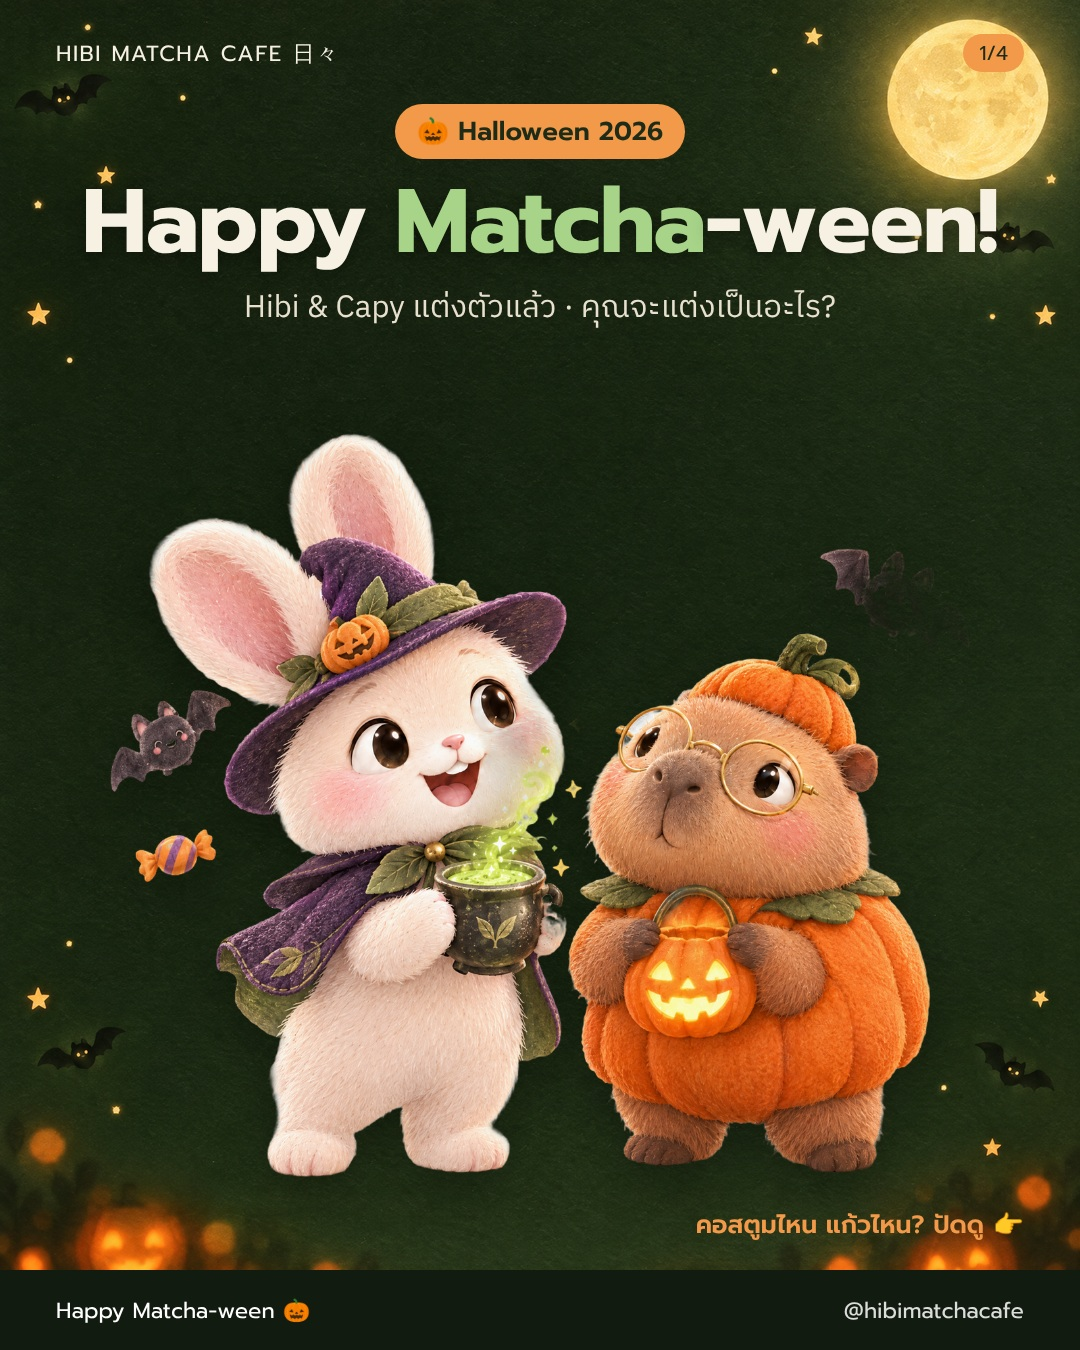
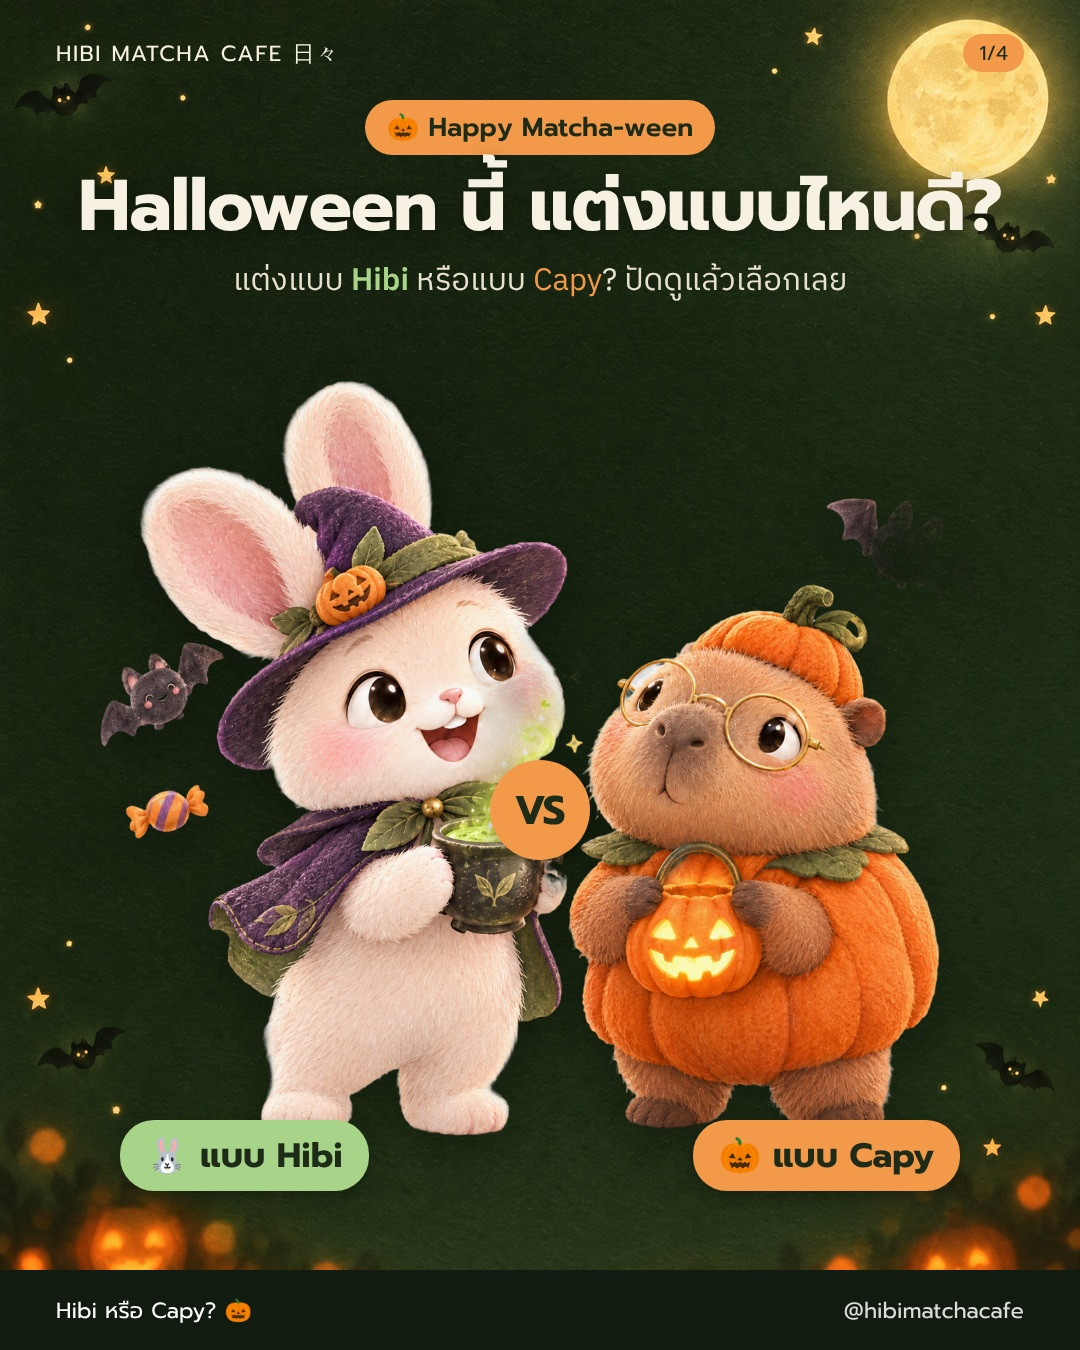
Halloween carousel: reframe as 'dress like Hibi or Capy?' vote
Claude-Session: https://claude.ai/code/session_019v9CAxCxqD3EqyHWdLwpMA

Changed region(s): [[0.0917, 0.28, 0.9472, 0.9333], [0.0611, 0.0622, 0.9472, 0.2489], [0.0611, 0.9644, 0.3056, 0.9956]]

diff --git a/docs/content-plan/campaigns/halloween-2026/build_slides.py b/docs/content-plan/campaigns/halloween-2026/build_slides.py
@@ -20,17 +20,21 @@ body{{background:{NIGHT} url('{A("bg_night", 1350)}') center/cover;color:{CREAM}
 .chip{{display:inline-block;background:{ORANGE};color:{NIGHT};font-family:'Prompt';font-weight:600;font-size:26px;padding:8px 22px;border-radius:30px}}
 {css}</style></head><body>
 <div class="top"><span>HIBI MATCHA CAFE 日々</span><span class="pg">{n}/{TOTAL}</span></div>{body}
-<div class="foot"><span>Happy Matcha-ween 🎃</span><span class="r">@hibimatchacafe</span></div></body></html>"""
+<div class="foot"><span>Hibi หรือ Capy? 🎃</span><span class="r">@hibimatchacafe</span></div></body></html>"""
 
 def s1():
-    css = f""".w{{position:absolute;top:104px;left:0;right:0;text-align:center}}
-.t{{font-size:90px;color:{CREAM};margin-top:16px;text-shadow:0 4px 18px rgba(0,0,0,.35)}}.t em{{font-style:normal;color:{LEAF}}}
-.s{{font-size:31px;color:#e8e1cf;margin-top:12px}}
-.sw{{position:absolute;right:56px;top:1206px;font-family:'Prompt';font-weight:600;font-size:25px;color:{ORANGE}}}"""
-    body = f"""<div class="w"><span class="chip">🎃 Halloween 2026</span>
-<div class="h1 t">Happy <em>Matcha</em>-ween!</div><div class="s">Hibi &amp; Capy แต่งตัวแล้ว · คุณจะแต่งเป็นอะไร?</div></div>
-<img class="art" src="{A('art_duo')}" style="left:110px;top:410px;width:860px;height:790px;object-fit:contain">
-<div class="sw">คอสตูมไหน แก้วไหน? ปัดดู 👉</div>"""
+    css = f""".w{{position:absolute;top:100px;left:0;right:0;text-align:center}}
+.t{{font-size:72px;color:{CREAM};margin-top:14px;text-shadow:0 4px 18px rgba(0,0,0,.35)}}
+.s{{font-size:31px;color:#e8e1cf;margin-top:10px}}.s b{{color:{LEAF}}}.s i{{font-style:normal;color:{ORANGE}}}
+.vs{{position:absolute;top:760px;left:490px;width:100px;height:100px;border-radius:50%;background:{ORANGE};color:{NIGHT};font-family:'Prompt';font-weight:700;font-size:40px;display:flex;align-items:center;justify-content:center;box-shadow:0 8px 20px rgba(0,0,0,.35)}}
+.lb{{position:absolute;top:1120px;font-family:'Prompt';font-weight:700;font-size:34px;padding:10px 26px;border-radius:34px;box-shadow:0 8px 20px rgba(0,0,0,.3)}}
+.sw{{position:absolute;right:56px;top:1206px;font-family:'Prompt';font-weight:600;font-size:24px;color:{ORANGE}}}"""
+    body = f"""<div class="w"><span class="chip">🎃 Happy Matcha-ween</span>
+<div class="h1 t">Halloween นี้ แต่งแบบไหนดี?</div><div class="s">แต่งแบบ <b>Hibi</b> หรือแบบ <i>Capy</i>? ปัดดูแล้วเลือกเลย</div></div>
+<img class="art" src="{A('art_duo')}" style="left:90px;top:380px;width:900px;height:760px;object-fit:contain">
+<div class="vs">VS</div>
+<div class="lb" style="left:120px;background:{LEAF};color:{NIGHT}">🐰 แบบ Hibi</div>
+<div class="lb" style="right:120px;background:{ORANGE};color:{NIGHT}">🎃 แบบ Capy</div>"""
     return page(1, body, css)
 
 CARD = f""".hd{{position:absolute;top:96px;left:56px}}
@@ -49,17 +53,17 @@ CARD = f""".hd{{position:absolute;top:96px;left:56px}}
 
 def card(art, cos, menu, price, q, drink):
     return f"""<div class="cd"><div class="ar"><img src="{A(art, 900)}"></div>
-<div class="tx"><div class="cos">{cos}</div><div class="arrow">แก้วที่ใช่คือ 👉</div><div class="mn">{menu}</div><div class="q">“{q}”</div></div>
+<div class="tx"><div class="cos">{cos}</div><div class="arrow">แก้วคู่ชุดนี้ 👉</div><div class="mn">{menu}</div><div class="q">“{q}”</div></div>
 <div class="pr">{price}</div><img class="dk" src="{img(drink)}"></div>"""
 
 def s2():
-    body = f"""<div class="hd"><div class="h1 t">คอสตูมไหน · แก้วไหน?</div><div class="s">เลือกชุดแล้ว มาจับคู่แก้วที่เข้ากัน (1/2)</div></div>
+    body = f"""<div class="hd"><div class="h1 t">🐰 แต่งแบบ <span style="color:{LEAF}">Hibi</span></div><div class="s">สายสดใส ขี้เล่น ชอบเป็นจุดสนใจ · เลือกได้ 2 ชุด</div></div>
 <div class="cards">{card('hibi_ghost', '👻 ผีน้อย', 'Clear Matcha', '59.-', 'ใส ๆ ลอย ๆ แบบผีน้อย ไม่ต้องหวานก็ได้', 'clear_matcha')}
 {card('hibi_witch', '🧙 แม่มด', 'Matcha Latte', '79.-', 'น้ำยาวิเศษสีเขียว ตีสด ๆ ทุกแก้ว', 'matcha_latte')}</div>"""
     return page(2, body, CARD)
 
 def s3():
-    body = f"""<div class="hd"><div class="h1 t">คอสตูมไหน · แก้วไหน?</div><div class="s">ชุดไหนคือคุณ? (2/2)</div></div>
+    body = f"""<div class="hd"><div class="h1 t">🎃 แต่งแบบ <span style="color:{ORANGE}">Capy</span></div><div class="s">สายชิล ใจเย็น น่ากอด · เลือกได้ 2 ชุด</div></div>
 <div class="cards">{card('capy_pumpkin', '🎃 ฟักทอง', 'Hojicha Latte', '79.-', 'สีส้มน้ำตาลอุ่น ๆ หอมคั่วเหมือนขนมฟักทอง', 'hojicha_latte')}
 {card('capy_vampire', '🧛 แวมไพร์', 'Matcha Strawberry Latte', '89.-', 'สีแดงสด… สตรอว์เบอร์รีจริง ไม่ใช่เลือดนะ 🍓', 'strawberry')}</div>"""
     return page(3, body, CARD)
@@ -76,7 +80,7 @@ def s4():
     body = f"""<div class="w"><div class="h1 t">31 ต.ค. <em>แต่งตัว</em>มาร้านกัน! 🎃</div>
 <div class="s">ถ่ายรูปคู่แก้ว Hibi ในชุดคอสตูม แล้วแท็กเรา</div><span class="tag">@hibimatchacafe #HibiMatchaween</span></div>
 <img class="art" src="{A('art_duo')}" style="left:250px;top:390px;width:580px;height:480px;object-fit:contain">
-<div class="ask"><div class="k">คอมเมนต์บอกหน่อย 👇</div><div class="v">ปีนี้คุณจะแต่งเป็นอะไร? 👻🧙🎃🧛</div></div>
+<div class="ask"><div class="k">คอมเมนต์เลือกเลย 👇 เช่น “ทีม Capy · ชุดแวมไพร์ 🧛”</div><div class="v">แต่งแบบ Hibi 🐰 หรือ Capy 🎃?</div></div>
 <div class="br"><div class="t2">📍 Hibi Matcha Cafe 5 สาขา</div><div class="l">ลาดพร้าว 107 · นาคนิวาส 48 · สะพานควาย · นวมินทร์ 111 · สามย่าน (จุฬาฯ 11)<br>Delivery: LINE MAN · Grab · ShopeeFood</div></div>"""
     return page(4, body, css)
 

diff --git a/docs/content-plan/campaigns/halloween-2026/README.md b/docs/content-plan/campaigns/halloween-2026/README.md
@@ -1,33 +1,32 @@
-# IG Carousel · Happy Matcha-ween 🎃 — “คอสตูมไหน แก้วไหน?”
+# IG Carousel · Happy Matcha-ween 🎃 — “Halloween นี้ แต่งแบบไหนดี? Hibi หรือ Capy”
 
 > ไฟล์โพสต์: `final/HIBI_HALLOWEEN_01.jpg` … `04.jpg` (1080×1350, 4:5) · ภาพรวม: `final/overview.jpg`
 > ภาพตัวละคร (คอสตูม) + พื้นหลังกลางคืน: Higgsfield gpt_image_2_5 อ้างอิงชีต Hibi & Capy · ตัวหนังสือไทยวางด้วย HTML (`build_slides.py`)
 
 ![overview](./final/overview.jpg)
 
-## โครงสไลด์
+## โครงสไลด์ (โหวต: แต่งแบบ Hibi หรือ Capy)
 | # | เนื้อหา |
 |---|---|
-| 1 | ปก “Happy Matcha-ween!” — Hibi แม่มด + Capy ฟักทอง |
-| 2 | 👻 ผีน้อย (Hibi) × Clear Matcha 59.- · 🧙 แม่มด (Hibi) × Matcha Latte 79.- |
-| 3 | 🎃 ฟักทอง (Capy) × Hojicha Latte 79.- · 🧛 แวมไพร์ (Capy) × Matcha Strawberry Latte 89.- |
-| 4 | CTA: “31 ต.ค. แต่งตัวมาร้านกัน!” ถ่ายรูปคู่แก้ว แท็ก @hibimatchacafe #HibiMatchaween + คอมเมนต์ “ปีนี้คุณจะแต่งเป็นอะไร?” + 5 สาขา |
+| 1 | ปก “Halloween นี้ แต่งแบบไหนดี?” — Hibi (แม่มด) **VS** Capy (ฟักทอง) · ป้าย “🐰 แบบ Hibi” / “🎃 แบบ Capy” |
+| 2 | 🐰 **แต่งแบบ Hibi** (สายสดใส ขี้เล่น): 👻 ผีน้อย × Clear Matcha 59.- · 🧙 แม่มด × Matcha Latte 79.- |
+| 3 | 🎃 **แต่งแบบ Capy** (สายชิล น่ากอด): 🎃 ฟักทอง × Hojicha Latte 79.- · 🧛 แวมไพร์ × Matcha Strawberry Latte 89.- |
+| 4 | CTA: “31 ต.ค. แต่งตัวมาร้านกัน!” แท็ก @hibimatchacafe #HibiMatchaween + โหวตในคอมเมนต์ “แต่งแบบ Hibi 🐰 หรือ Capy 🎃?” + 5 สาขา |
 
 ## แคปชัน IG / FB
 ```
-Happy Matcha-ween! 🎃 Hibi & Capy แต่งตัวแล้ว คุณล่ะ?
-👻 ผีน้อย → Clear Matcha
-🧙 แม่มด → Matcha Latte
-🎃 ฟักทอง → Hojicha Latte
-🧛 แวมไพร์ → Matcha Strawberry Latte (สตรอว์เบอร์รีจริง ไม่ใช่เลือดนะ 🍓)
+Halloween นี้ แต่งแบบไหนดี? 🎃 แบบ Hibi 🐰 หรือแบบ Capy?
 
+🐰 แบบ Hibi (สายสดใส): 👻 ผีน้อย × Clear Matcha · 🧙 แม่มด × Matcha Latte
+🎃 แบบ Capy (สายชิล): 🎃 ฟักทอง × Hojicha Latte · 🧛 แวมไพร์ × Matcha Strawberry Latte
+
+คอมเมนต์โหวตเลย เช่น “ทีม Capy · ชุดแวมไพร์ 🧛” 👇
 เสาร์ 31 ต.ค. แต่งคอสตูมมาถ่ายรูปคู่แก้ว Hibi แล้วแท็ก @hibimatchacafe #HibiMatchaween
-คอมเมนต์บอกหน่อย ปีนี้จะแต่งเป็นอะไร? 👇
 
 📍 Hibi Matcha Cafe ทั้ง 5 สาขา · Delivery: LINE MAN / Grab / ShopeeFood
 #HibiMatcha #HibiMatchaween #Halloween #ฮาโลวีน #มัทฉะ #คาเฟ่กรุงเทพ
 ```
-**คอมเมนต์ปักหมุด:** `ทีมผีน้อย 👻 แม่มด 🧙 ฟักทอง 🎃 หรือแวมไพร์ 🧛? เลือกมา 1 ชุด!`
+**คอมเมนต์ปักหมุด:** `ทีม Hibi 🐰 หรือ ทีม Capy 🎃? บอกชุดที่เลือกด้วยน้า~`
 
 ## ก่อนโพสต์
 - [ ] **มีโปรโมชันวันฮาโลวีนไหม** (เช่น แต่งตัวมาลด X%) — ตอนนี้ภาพ/แคปชันเป็นแค่คำชวน ไม่มีโปร · ถ้ามี บอกได้ จะใส่ป้ายโปรในสไลด์ 4 + แคปชัน
